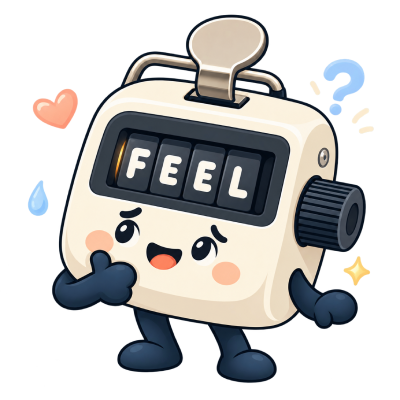
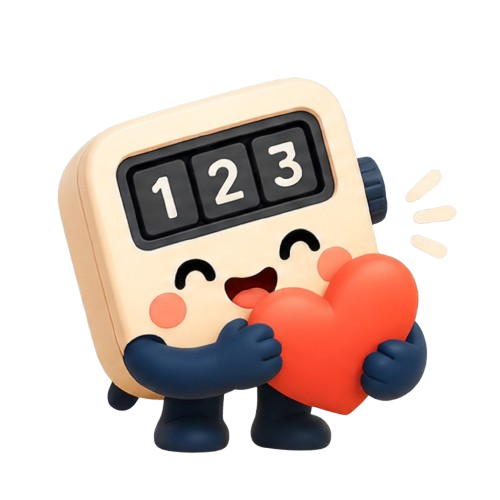
feat: Update Life in Numbers mascot design and welcome animation

diff --git a/lib/widgets/mascot_widget.dart b/lib/widgets/mascot_widget.dart
@@ -11,9 +11,8 @@ class MascotWidget extends StatefulWidget {
   State<MascotWidget> createState() => _MascotWidgetState();
 }
 
-class _MascotWidgetState extends State<MascotWidget> with TickerProviderStateMixin {
+class _MascotWidgetState extends State<MascotWidget> with SingleTickerProviderStateMixin {
   late final AnimationController _idleController;
-  late final AnimationController _waveController;
 
   @override
   void initState() {
@@ -22,23 +21,18 @@ class _MascotWidgetState extends State<MascotWidget> with TickerProviderStateMix
       vsync: this,
       duration: const Duration(milliseconds: 2400),
     )..repeat();
-    _waveController = AnimationController(
-      vsync: this,
-      duration: const Duration(milliseconds: 1700),
-    )..forward();
   }
 
   @override
   void dispose() {
     _idleController.dispose();
-    _waveController.dispose();
     super.dispose();
   }
 
   Widget _layer(String name) {
     return Image.asset(
       'assets/mascot/$name.png',
-      fit: BoxFit.contain,
+      fit: BoxFit.fill,
       gaplessPlayback: true,
       errorBuilder: (context, error, stackTrace) {
         debugPrint('Mascot asset error ($name): $error');
@@ -47,19 +41,12 @@ class _MascotWidgetState extends State<MascotWidget> with TickerProviderStateMix
     );
   }
 
-  Widget _animatedArm(String name, double angle, Alignment origin) {
+  Widget _animatedPart(String name, double angle, Alignment origin) {
     return Transform.rotate(
       angle: angle,
       alignment: origin,
       child: _layer(name),
     );
-  }
-
-  double _waveAngle(double progress) {
-    if (progress <= 0 || progress >= 1) return 0;
-    final envelope = math.sin(progress * math.pi);
-    final oscillation = math.sin(progress * 4 * math.pi);
-    return envelope * (0.12 + oscillation * 0.10);
   }
 
   @override
@@ -68,25 +55,31 @@ class _MascotWidgetState extends State<MascotWidget> with TickerProviderStateMix
       width: widget.size,
       height: widget.size,
       child: AnimatedBuilder(
-        animation: Listenable.merge([_idleController, _waveController]),
+        animation: _idleController,
         builder: (context, child) {
           final phase = _idleController.value * 2 * math.pi;
-          final breathing = math.sin(phase) * 2;
-          final armAngle = math.sin(phase) * 0.035;
-          final waveAngle = _waveAngle(_waveController.value);
+          final breathing = math.sin(phase) * 1.2;
+          final leftArmWave = math.sin(phase) * 0.025;
+          final rightArmSwing = math.sin(phase) * 0.065;
 
           return Transform.translate(
             offset: Offset(0, breathing),
             child: Stack(
               fit: StackFit.expand,
               children: [
-                _layer('left_leg'),
-                _layer('right_leg'),
-                _animatedArm('left_arm', armAngle + waveAngle, const Alignment(0.60, 0.25)),
-                _animatedArm('right_arm', -armAngle, const Alignment(0.55, 0.20)),
-                _layer('body'),
-                _layer('side_knob'),
-                _layer('top_button'),
+                _layer('Left_Leg'),
+                _layer('Right_Leg'),
+                _animatedPart(
+                  'Left_Arm',
+                  leftArmWave,
+                  const Alignment(0.10, 0.10),
+                ),
+                _animatedPart(
+                  'Right_Arm',
+                  rightArmSwing,
+                  const Alignment(0.50, 0.27),
+                ),
+                _layer('Main_Body'),
               ],
             ),
           );
